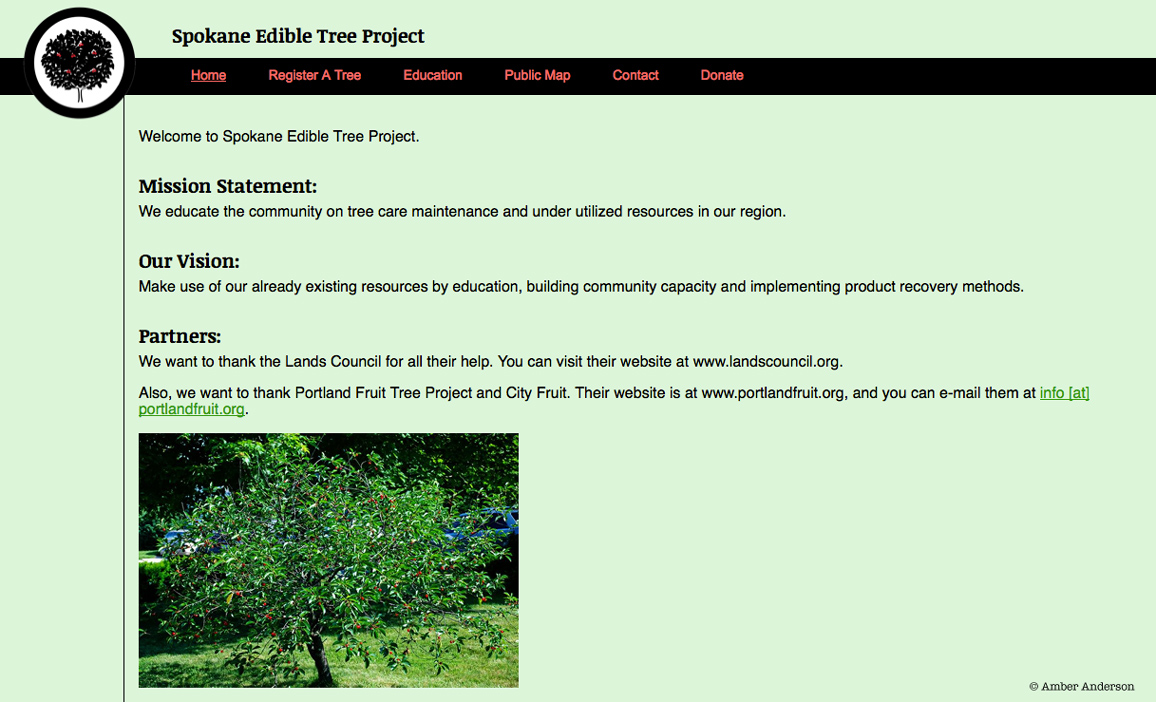
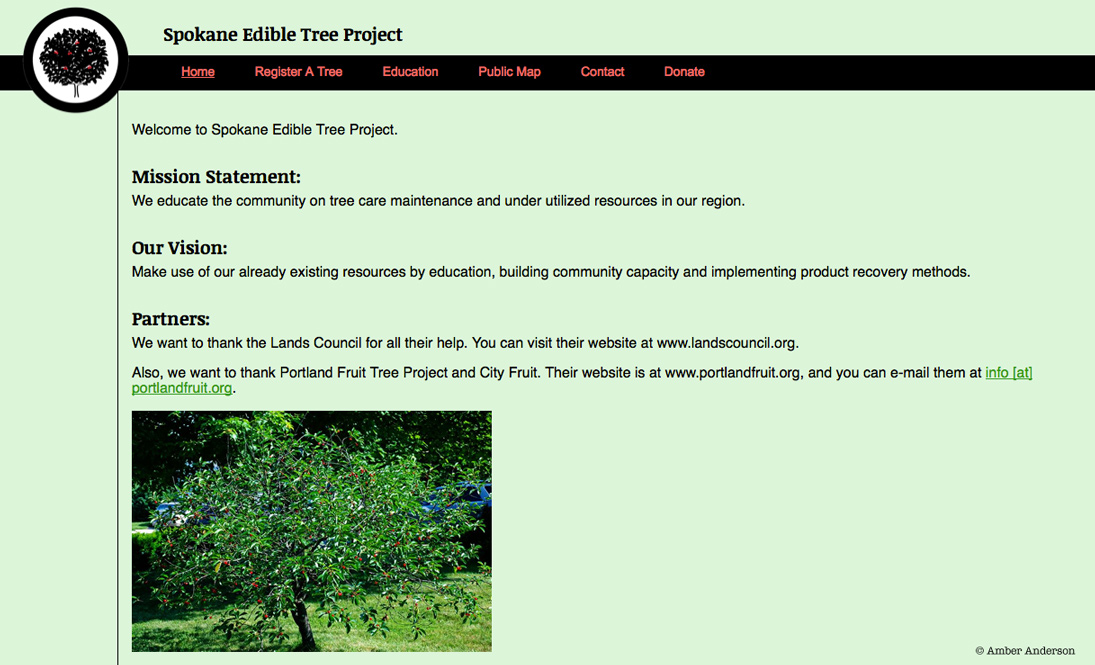
copyrightPortrait

diff --git a/index.html b/index.html
@@ -66,7 +66,7 @@
 	<p class="title">/* Illustration */</p>
     <p>Vector illustration of Black Widow Steampunk motorcycle. [Adobe Illustrator]</p>
 	<div class="zoom" id="ex1">
-		<img src="img/graphics/BlackWidowSteampunkChopperCopyrightWeb.jpg" alt="Illustration of Black Widow Steampunk Motorcycle" title="Illustration of Black Widow Steampunk Motorcycle" />
+		<img src="img/graphics/BlackWidowSteampunkChopper.jpg" alt="Illustration of Black Widow Steampunk Motorcycle" title="Illustration of Black Widow Steampunk Motorcycle" />
 	</div> <br />
     <p>Original web comic about a vampire stick figure named <a href="http://www.pinterest.com/DesignCreatureX/dapper-immortal" style="color: #6CF;">Dapper Immortal</a>.</p>
 	<div class="zoom" id="ex3">
@@ -87,22 +87,22 @@
 	<div class="zoom" id="ex6">
 		<img src="img/photos/trainTracksFog.png" alt="Train Tracks With Black Cloth Filter" title="Train Tracks With Black Cloth Filter" />
 	</div> <br />-->
-	<p>Looking at perspectives and reflections with a lager and beer list at a brewery.</p>
+	<p>Looking at perspectives and reflections with a stout and a beer list hanging on the wall at a brewery.</p>
     	<div class="zoom" id="ex6">
-		<img src="img/photos/amberLager.jpg" alt=“At The Bar” title=“At The Bar“ />
+		<img src="img/photos/reflection.jpg" alt=“At The Bar” title=“At The Bar“ />
 	</div> <br /><br />
     
 	<p class="title">/* Web Development */</p>
 	<p>Designed and developed the following website for a <a href="http://www.spokaneedibletreeproject.org" style="color: #6CF;">rad non-profit</a> located in Spokane, WA.</p>
 	<div class="zoom" id="ex7">
-		<a href="http://www.spokaneedibletreeproject.org" target="_blank"><img src="img/webdev/SpokaneEdible.png" alt="screenshot of the home page" /></a>
+		<a href="http://www.spokaneedibletreeproject.org" target="_blank"><img src="img/webdev/SpokaneEdible.jpg" alt="screenshot of the home page" /></a>
 	</div>
 	<!--<div>
 		<a href="http://www.fasttrees.com" target="_blank"><img src="img/webdev/ftBanner.png" alt="logo" /></a>
 	</div>-->
     <p>Also designed and developed the following website for a <a href="http://www.fasttrees.com" style="color: #6CF;">nursery</a> located in Washington.</p>
 	<div class="zoom" id="ex8">
-		<a href="http://www.fasttrees.com" target="_blank"><img src="img/webdev/fastTrees.png" alt="screenshot of the home page" /></a>
+		<a href="http://www.fasttrees.com" target="_blank"><img src="img/webdev/fastTrees.jpg" alt="screenshot of the home page" /></a>
 	</div> <br /><br />
 
     <p class="title">/* Identity and Branding */</p>
